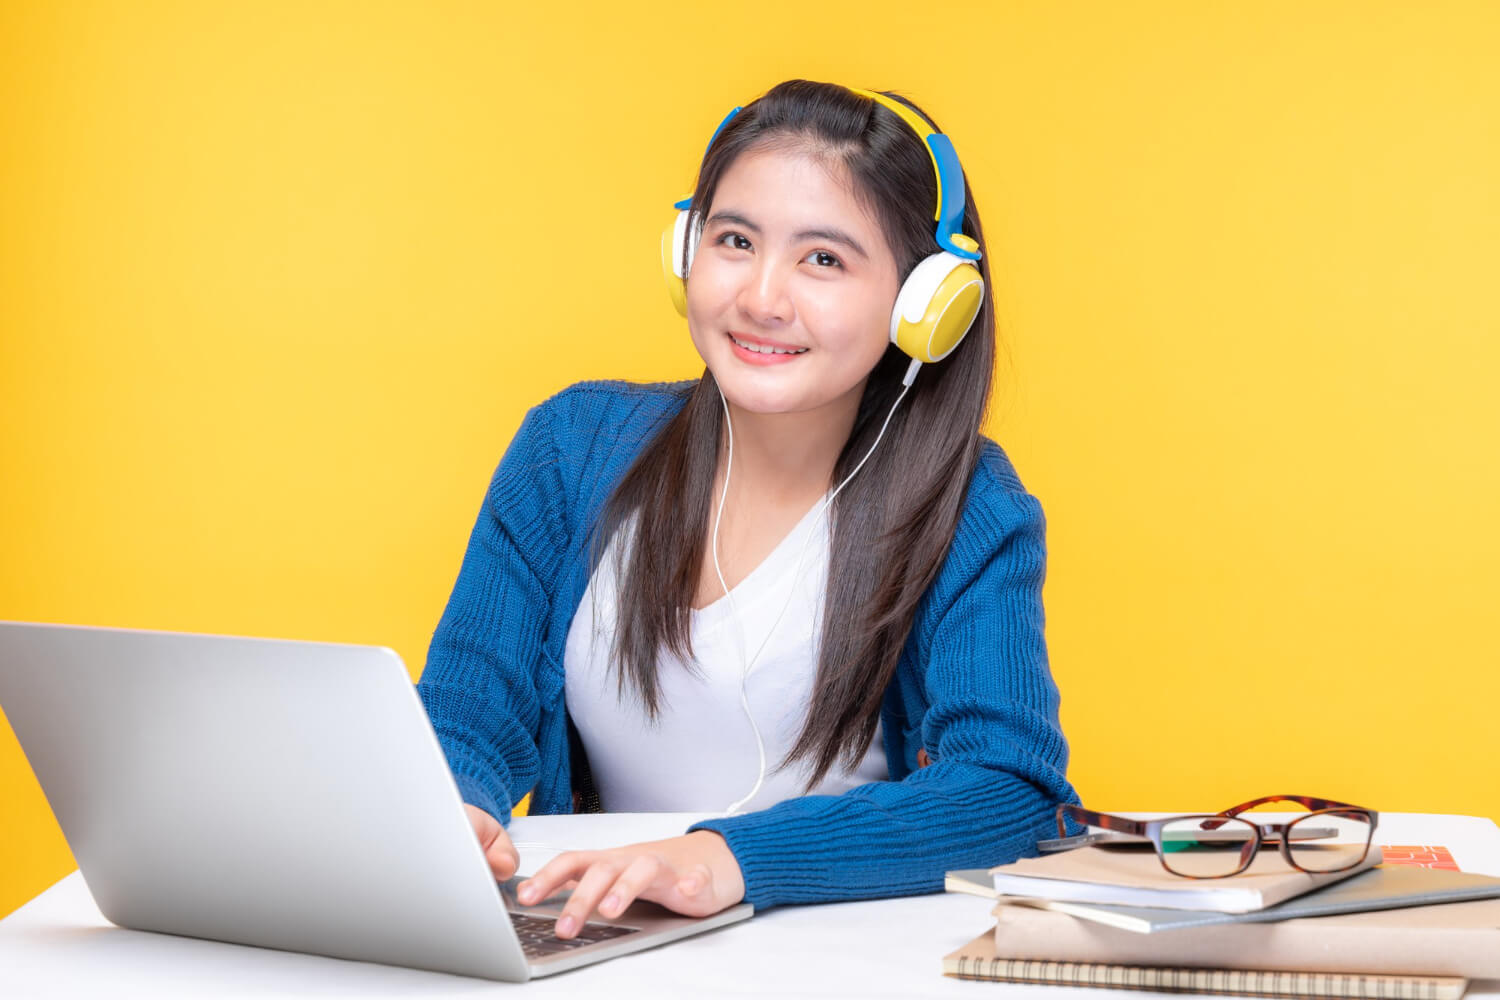
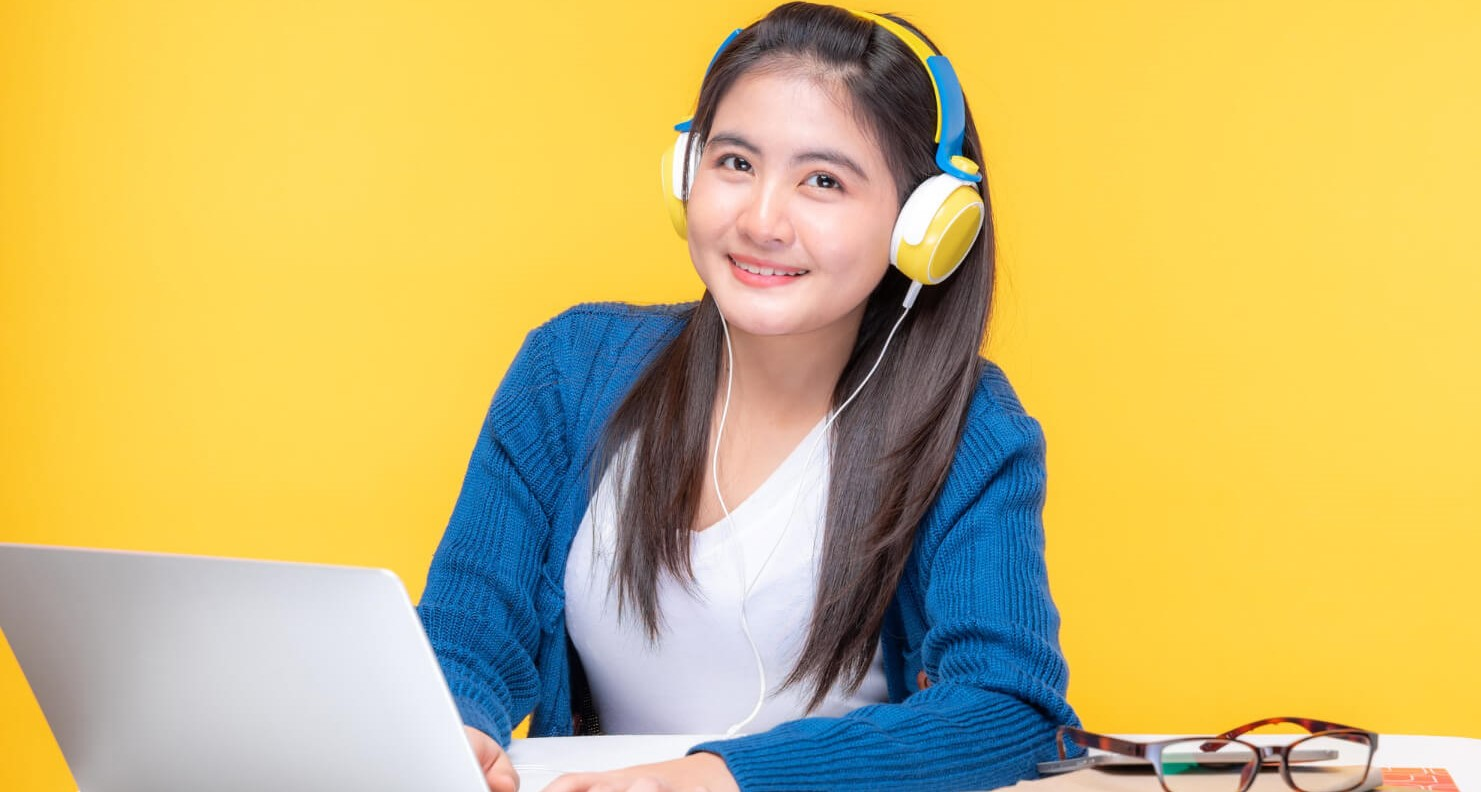
header section done

diff --git a/index.html b/index.html
@@ -19,11 +19,124 @@
     <title>DSAwiz-website</title>
   </head>
   <body>
-    <main>
+    <main class="container">
       <!-- header section  -->
       <header>
         <!-- header navbar -->
+        <nav class="navbar navbar-expand-lg bg-light py-4">
+          <div class="container-fluid d-flex justify-content-between">
+            <a class="navbar-brand" href="#">DSAwiz</a>
+            <div>
+              <button
+                class="navbar-toggler"
+                type="button"
+                data-bs-toggle="collapse"
+                data-bs-target="#navbarSupportedContent"
+                aria-controls="navbarSupportedContent"
+                aria-expanded="false"
+                aria-label="Toggle navigation"
+              >
+                <span class="navbar-toggler-icon"></span>
+              </button>
+              <div class="collapse navbar-collapse" id="navbarSupportedContent">
+                <ul class="navbar-nav me-auto mb-2 mb-lg-0">
+                  <li class="nav-item">
+                    <a class="nav-link active" aria-current="page" href="#"
+                      >Home</a
+                    >
+                  </li>
+                  <li class="nav-item">
+                    <a class="nav-link" href="#">Courses</a>
+                  </li>
+                  <li class="nav-item">
+                    <a class="nav-link" href="#">Deals</a>
+                  </li>
+                  <li class="nav-item">
+                    <a class="nav-link" href="#">Success</a>
+                  </li>
+                  <li class="nav-item">
+                    <a class="nav-link" href="#">About</a>
+                  </li>
+                  <li class="nav-item">
+                    <a class="nav-link" href="#">Register</a>
+                  </li>
+                </ul>
+              </div>
+            </div>
+            <form class="d-flex" role="search">
+              <button class="btn btn-outline-info" type="submit">
+                Register
+              </button>
+            </form>
+          </div>
+        </nav>
         <!-- header banner -->
+        <div class="banner py-4rem">
+          <div
+            id="carouselExampleControls"
+            class="carousel slide"
+            data-bs-ride="carousel"
+          >
+            <div class="carousel-inner darkened-img">
+              <div class="carousel-item active">
+                <img
+                  src="./images/cover/cover-1.png"
+                  class="d-block w-100 img-fluid"
+                  alt="..."
+                />
+              </div>
+              <div class="carousel-item">
+                <img
+                  src="./images/cover/cover-2.jpg"
+                  class="d-block w-100 img-fluid"
+                  alt="..."
+                />
+              </div>
+              <div class="carousel-item">
+                <img
+                  src="./images/cover/cover-3.jpg"
+                  class="d-block w-100 img-fluid"
+                  alt="..."
+                />
+              </div>
+            </div>
+            <button
+              class="carousel-control-prev"
+              type="button"
+              data-bs-target="#carouselExampleControls"
+              data-bs-slide="prev"
+            >
+              <span
+                class="carousel-control-prev-icon"
+                aria-hidden="true"
+              ></span>
+              <span class="visually-hidden">Previous</span>
+            </button>
+            <button
+              class="carousel-control-next"
+              type="button"
+              data-bs-target="#carouselExampleControls"
+              data-bs-slide="next"
+            >
+              <span
+                class="carousel-control-next-icon"
+                aria-hidden="true"
+              ></span>
+              <span class="visually-hidden">Next</span>
+            </button>
+          </div>
+          <div
+            class="banner-text text-light d-flex flex-column align-items-center"
+          >
+            <h1 class="py-2">Get Started learning Digitally</h1>
+            <p class="py-2">
+              This is a platform to help you grow professionally or personally
+              in your own time at the comfort of your home. Join today and
+              become certified and achieve your goals.
+            </p>
+            <button class="btn btn-info text-light">Get Started</button>
+          </div>
+        </div>
       </header>
       <!-- popular courses section -->
       <section>
@@ -46,7 +159,7 @@
       <!-- company icons section  -->
       <section>
         <h1></h1>
-        <div class="icons"></div>
+        <div></div>
       </section>
     </main>
     <footer

diff --git a/styles/style.css b/styles/style.css
@@ -1,3 +1,15 @@
+/* header  */
+.banner .banner-text {
+  position: absolute;
+  width: 50%;
+  left: 25%;
+  top: 60%;
+  z-index: 20;
+}
+.darkened-img img {
+  filter: brightness(50%);
+}
+/* footer  */
 .icons .fa-brands {
   font-size: 2rem;
 }
